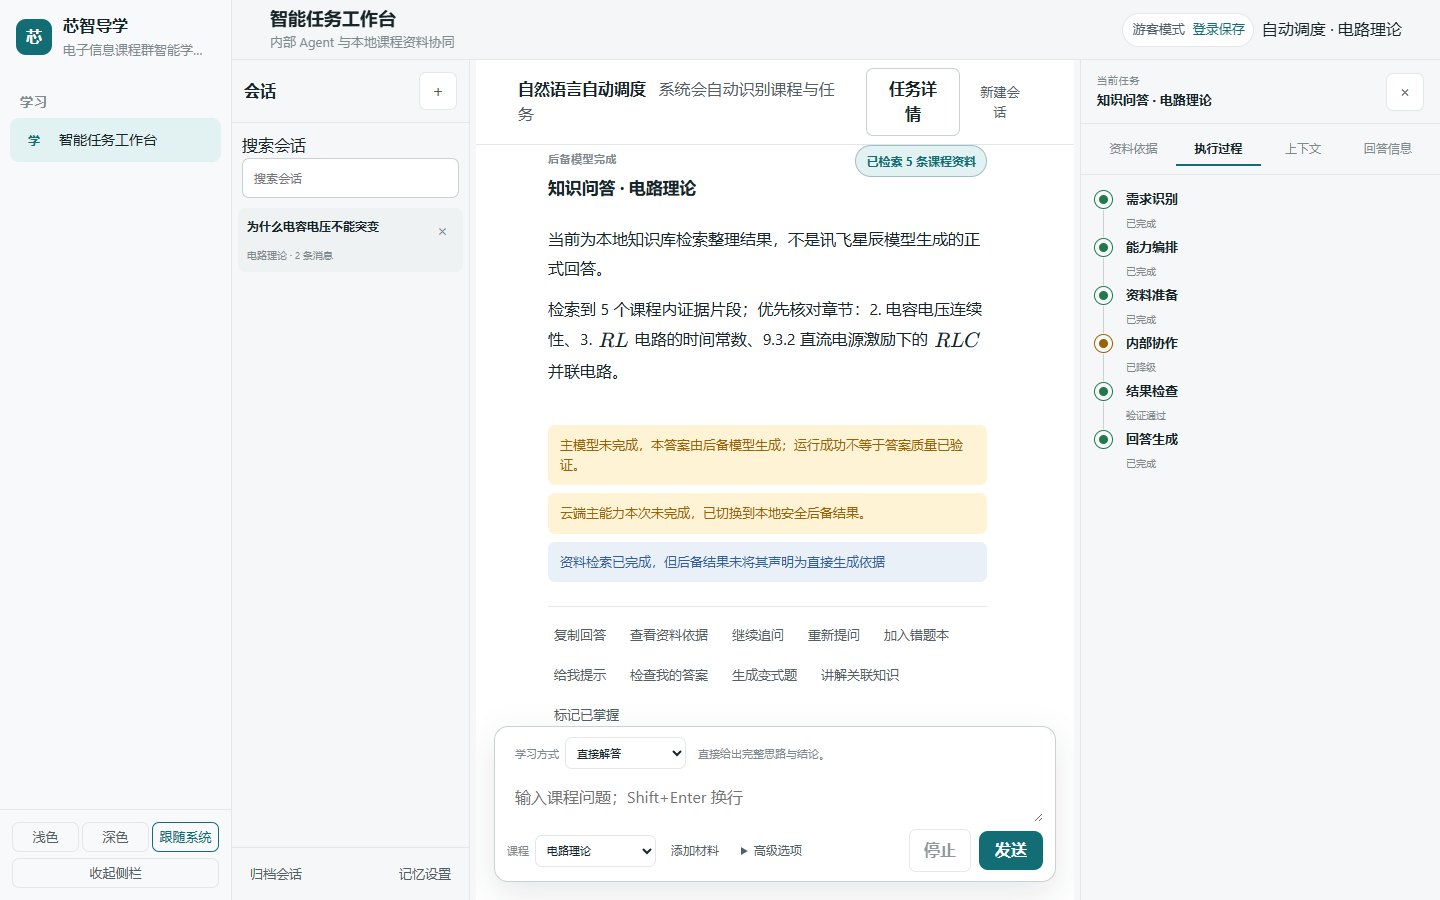
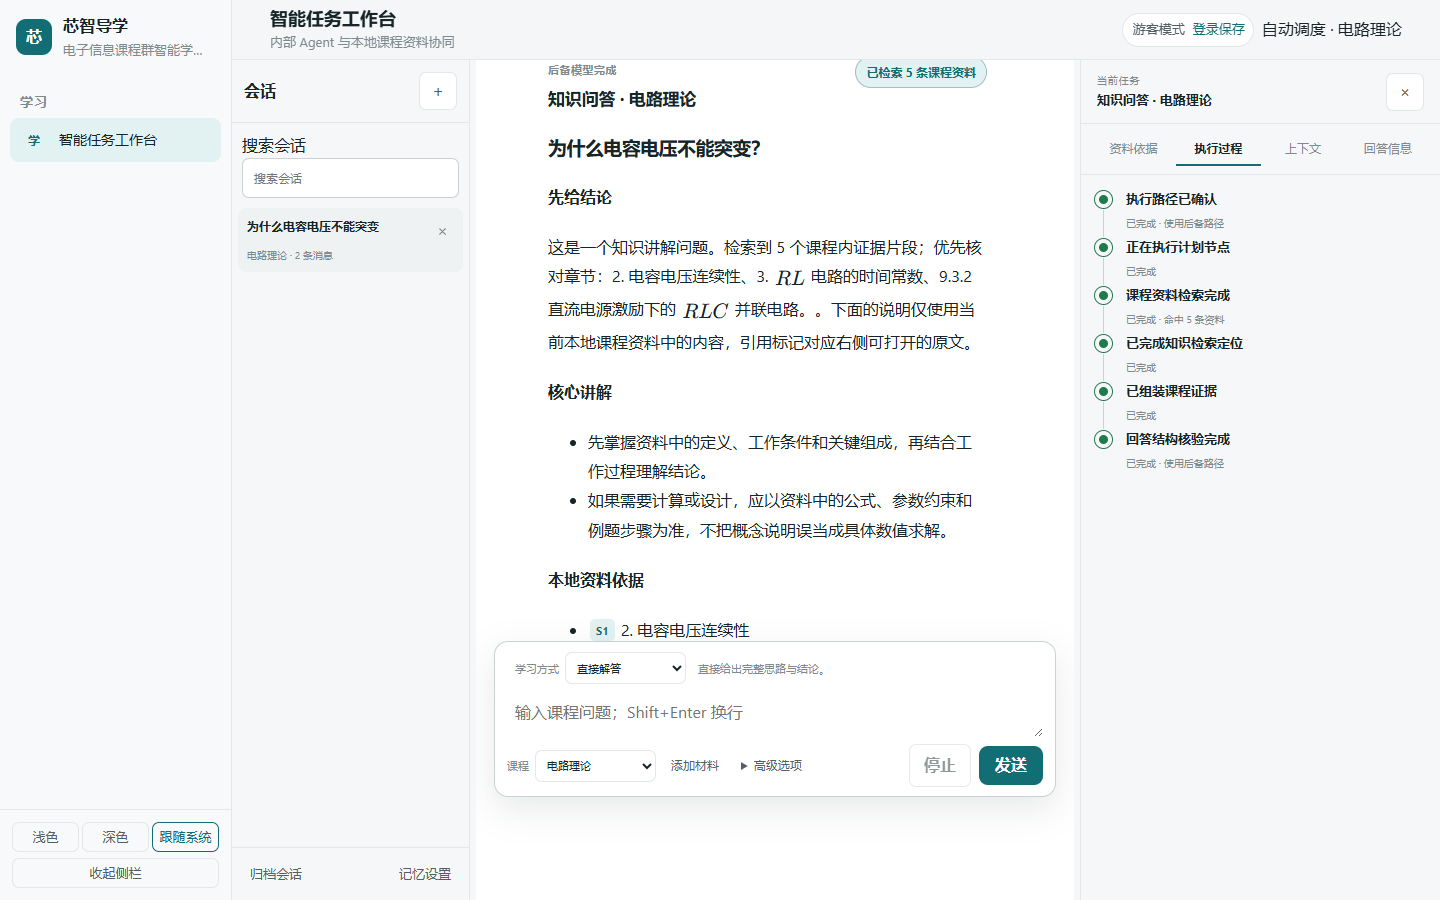
docs(evaluation): record browser workspace acceptance

diff --git a/docs/evaluation/runtime_non_xingchen_paired_review_2026-08-10.md b/docs/evaluation/runtime_non_xingchen_paired_review_2026-08-10.md
@@ -529,3 +529,21 @@ They are ignored and must not be committed.
   `SOLVER_CT v1.0` baseline was modified. Independent semantic review and a
   human release decision remain required; no release, canary, or default
   authorization was created.
+
+## 32. 2026-08-11 browser-rendered workspace acceptance
+
+- The repository browser acceptance completed against one isolated test API
+  process with `APP_ENV=test`, `DEFAULT_AGENT_PROVIDER=mock`, Xingchen and
+  external Providers disabled, and a temporary SQLite database. Its static
+  and route preflight passed `19/19`; the browser flow produced 17 screenshots
+  with zero page errors and no server left listening on the target port.
+- The flow covered workspace empty state, CT/AE/DE task submission, evidence
+  expansion and linking, process and answer-info tabs, Solver text and image
+  input, Mock/fallback boundary presentation, execution and retrieval views,
+  demo center, 1280x720 presentation mode, dark theme, and 390px mobile
+  layout. The recorded assets are under
+  `docs/reviews/workspace_v2_screenshots/`.
+- This proves the static/browser interaction path under an isolated Mock
+  configuration. It does not prove real Provider semantic quality, Runtime
+  release authorization, or production browser behavior under external
+  dependencies.
